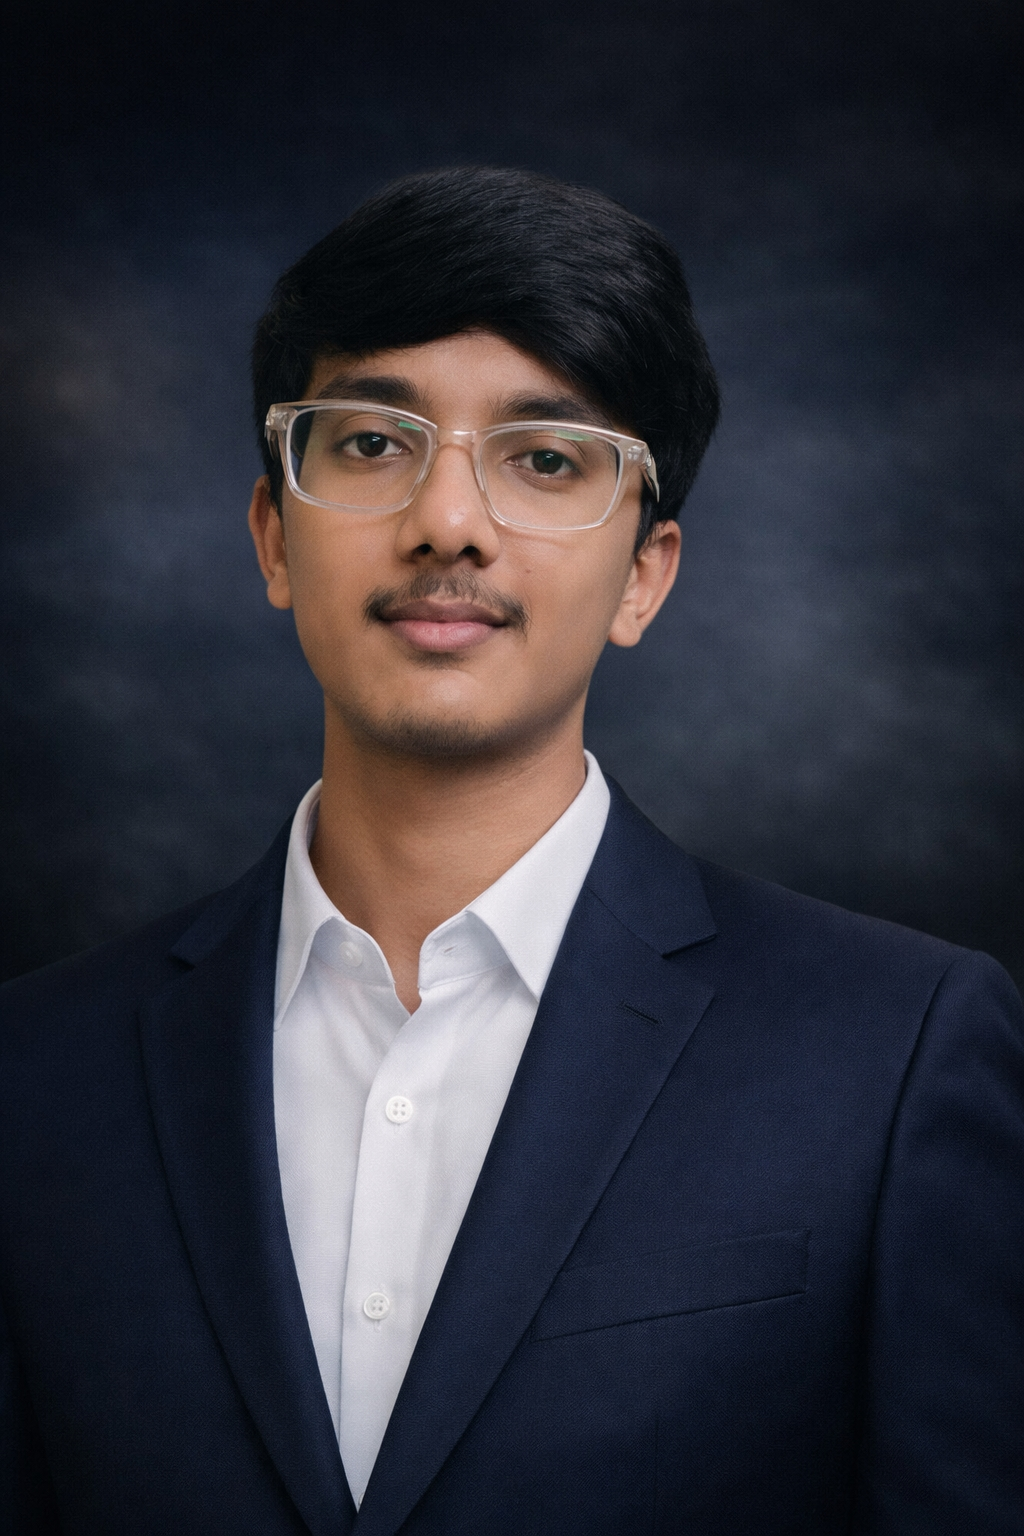
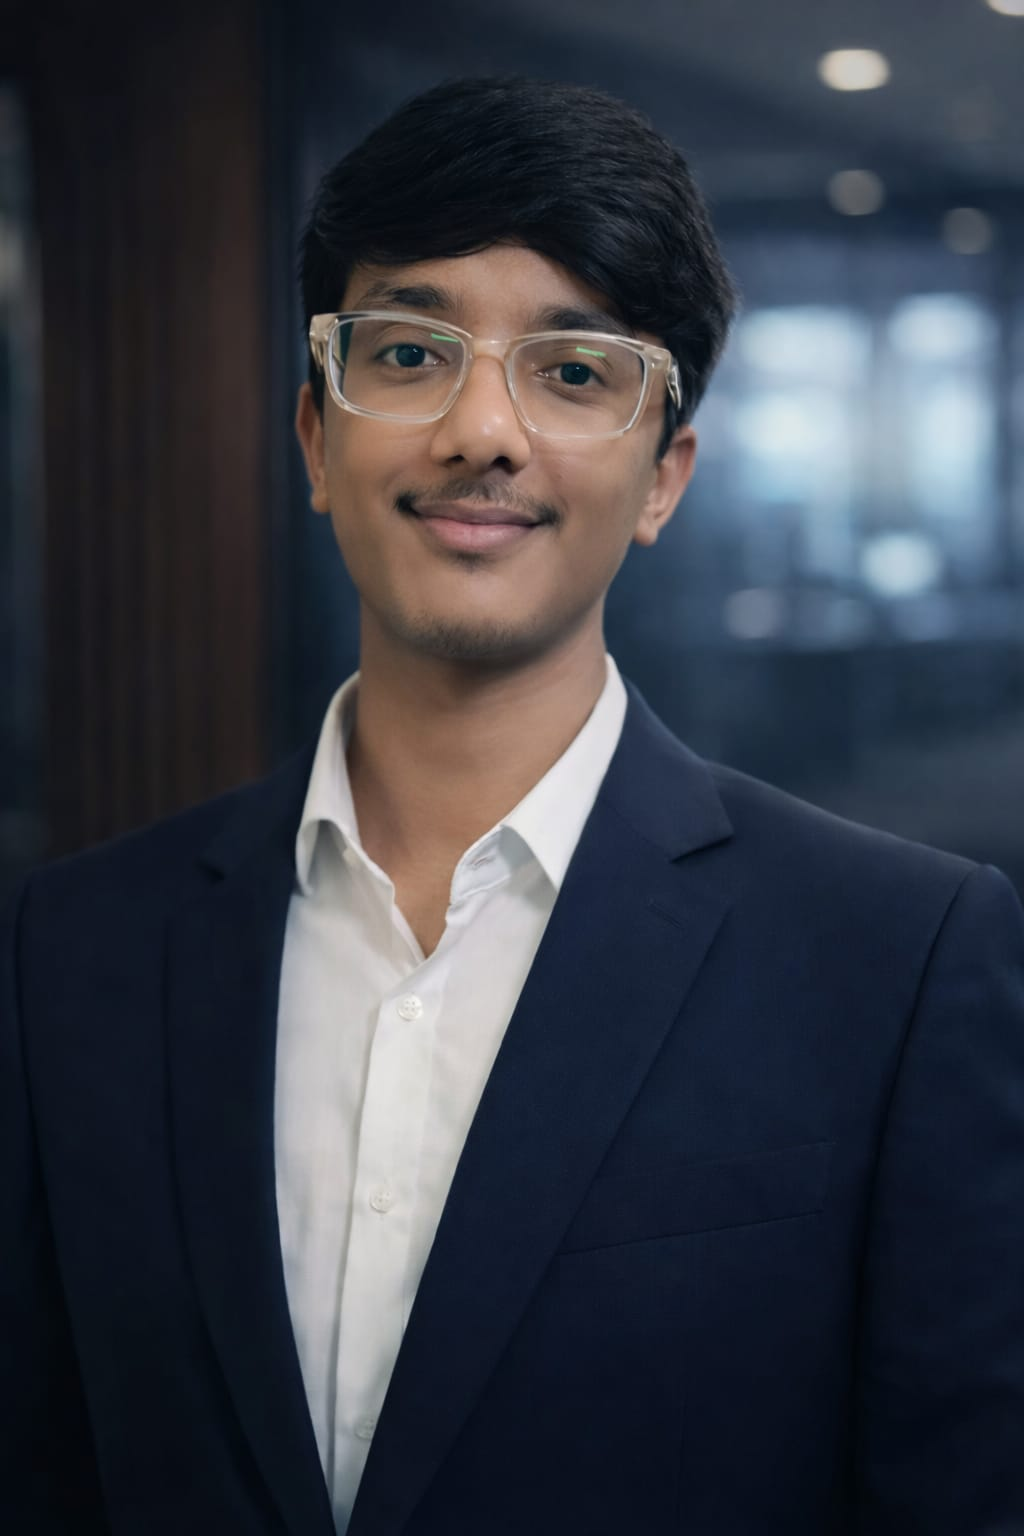
semifinal changes are done

diff --git a/index.html b/index.html
@@ -53,7 +53,7 @@
     <em class="reveal-text" style="color:aqua; font-size:20px; display: block; margin-top: 20px; font-style: normal;">Find me on</em>
 
     <div class="social-links">
-        <a href="https://linkedin.com/in/damodarvalluru" target="_blank" class="social-icon"><i class="fab fa-linkedin-in"></i></a>
+        <a href="https://www.linkedin.com/in/damodar-valluru-23508a359" target="_blank" class="social-icon"><i class="fab fa-linkedin-in"></i></a>
         <a href="https://github.com/damodarvalluru" target="_blank" class="social-icon"><i class="fab fa-github"></i></a>
         <a href="https://twitter.com/damodarvalluru" target="_blank" class="social-icon"><i class="fab fa-twitter"></i></a>
         <a href="https://instagram.com/damodar_valluru" target="_blank" class="social-icon"><i class="fab fa-instagram"></i></a>
